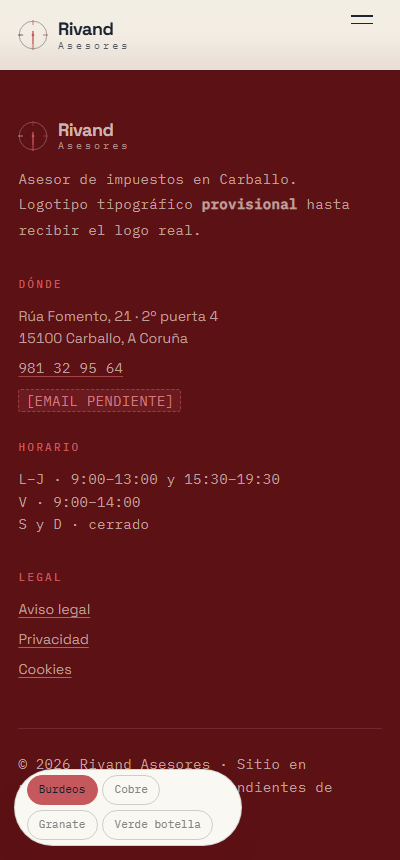
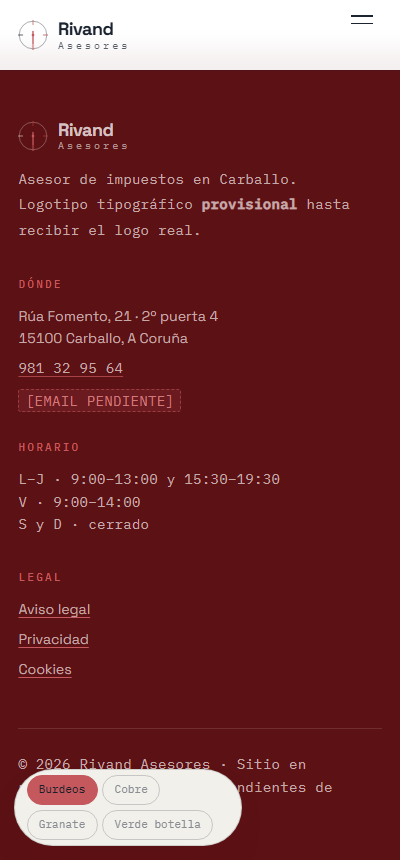
Blanco puro de Dourado & Fernández como papel del default, no solo su rojo
El email comparativo enseña esta web con el rojo real de Dourado & Fernández
como color por defecto, pero su sitio real también es blanco (--crema:
#FFFFFF), no el crema cálido de «Cuenta atrás». Enseñarle su acento sobre un
papel ajeno no era una vista previa fiel, así que el bare :root (Burdeos)
pasa --crema a #FFFFFF y --papel/--crema-2 al #F2F0EA exacto de la franja
secundaria casi-blanca de su propia web. Cobre/Granate/Verde botella
conservan el crema cálido nativo (movido a html.paleta-original y extendido
a .paleta-granate/.paleta-botella, que antes lo heredaban del :root
compartido): no son una réplica de ningún sitio ajeno, solo Burdeos lo es.

Contraste re-verificado con la fórmula WCAG: --cobre-tinta y --salvia-tinta
mejoran (~10,8:1 y ~10:1) sobre el blanco frente al crema cálido anterior.
Seis comprobaciones nuevas en verify.js cubren el fondo en frío, «Cobre»
recuperando el crema nativo y que Granate/Botella no heredan el blanco
(74/74 pasan). README actualizado.

Changed region(s): [[0.0, 0.0, 1.0, 0.0907]]

diff --git a/scripts/verify.js b/scripts/verify.js
@@ -416,7 +416,10 @@ function trimestreEsperado(ahora) {
         pressed: caja && document.getElementById('paleta-burdeos').getAttribute('aria-pressed'),
         clase: document.documentElement.className,
         cobre: getComputedStyle(document.documentElement).getPropertyValue('--cobre').trim(),
-        noche: getComputedStyle(document.documentElement).getPropertyValue('--noche').trim()
+        noche: getComputedStyle(document.documentElement).getPropertyValue('--noche').trim(),
+        crema: getComputedStyle(document.documentElement).getPropertyValue('--crema').trim(),
+        papel: getComputedStyle(document.documentElement).getPropertyValue('--papel').trim(),
+        bodyBg: getComputedStyle(document.body).backgroundColor
       };
     });
     ok('el control de paleta se muestra con JS', inicial.visible, inicial);
@@ -426,17 +429,26 @@ function trimestreEsperado(ahora) {
       inicial.cobre.toLowerCase() === '#c4585c', inicial.cobre);
     ok('el fondo oscuro por defecto (--noche) es el de Dourado & Fernández',
       inicial.noche.toLowerCase() === '#5c1114', inicial.noche);
+    ok('el papel por defecto (--crema) es el blanco real de Dourado & Fernández, no el crema nativo',
+      inicial.crema.toLowerCase() === '#ffffff', inicial.crema);
+    ok('el fondo del <body> se pinta en blanco puro nada más cargar (sin localStorage)',
+      inicial.bodyBg === 'rgb(255, 255, 255)', inicial.bodyBg);
 
     await page.locator('#paleta-original').click();
     await page.waitForTimeout(150);
     const trasOriginal = await page.evaluate(() => ({
       clase: document.documentElement.className,
       cobre: getComputedStyle(document.documentElement).getPropertyValue('--cobre').trim(),
+      crema: getComputedStyle(document.documentElement).getPropertyValue('--crema').trim(),
+      bodyBg: getComputedStyle(document.body).backgroundColor,
       guardado: (() => { try { return localStorage.getItem('rivand-paleta'); } catch (e) { return null; } })()
     }));
     ok('al pulsar «Cobre» (paleta nativa) cambia la clase y el color de marca (--cobre) computado',
       /paleta-original/.test(trasOriginal.clase) && trasOriginal.cobre.toLowerCase() === '#c08552' &&
       trasOriginal.cobre.toLowerCase() !== inicial.cobre.toLowerCase(),
+      trasOriginal);
+    ok('«Cobre» recupera el papel crema nativo de «Cuenta atrás» (#F3EEE4), no el blanco de Dourado',
+      trasOriginal.crema.toLowerCase() === '#f3eee4' && trasOriginal.bodyBg === 'rgb(243, 238, 228)',
       trasOriginal);
     ok('la elección de paleta se guarda en localStorage', trasOriginal.guardado === 'original', trasOriginal.guardado);
 
@@ -449,11 +461,16 @@ function trimestreEsperado(ahora) {
     const trasGranate = await page.evaluate(() => ({
       clase: document.documentElement.className,
       cobre: getComputedStyle(document.documentElement).getPropertyValue('--cobre').trim(),
+      crema: getComputedStyle(document.documentElement).getPropertyValue('--crema').trim(),
+      bodyBg: getComputedStyle(document.body).backgroundColor,
       guardado: (() => { try { return localStorage.getItem('rivand-paleta'); } catch (e) { return null; } })()
     }));
     ok('al pulsar «Granate» cambia la clase y el color de marca (--cobre) computado',
       /paleta-granate/.test(trasGranate.clase) && !/paleta-original/.test(trasGranate.clase) &&
       trasGranate.cobre.toLowerCase() !== trasOriginal.cobre.toLowerCase(),
+      trasGranate);
+    ok('«Granate» se queda en el papel crema nativo (no hereda el blanco de Dourado del bare :root)',
+      trasGranate.crema.toLowerCase() === '#f3eee4' && trasGranate.bodyBg === 'rgb(243, 238, 228)',
       trasGranate);
 
     await page.locator('#paleta-botella').click();
@@ -461,11 +478,16 @@ function trimestreEsperado(ahora) {
     const trasBotella = await page.evaluate(() => ({
       clase: document.documentElement.className,
       cobre: getComputedStyle(document.documentElement).getPropertyValue('--cobre').trim(),
+      crema: getComputedStyle(document.documentElement).getPropertyValue('--crema').trim(),
+      bodyBg: getComputedStyle(document.body).backgroundColor,
       guardado: (() => { try { return localStorage.getItem('rivand-paleta'); } catch (e) { return null; } })()
     }));
     ok('«Verde botella» también cambia clase, color computado y localStorage',
       /paleta-botella/.test(trasBotella.clase) && !/paleta-granate/.test(trasBotella.clase) &&
       trasBotella.cobre.toLowerCase() !== trasGranate.cobre.toLowerCase() && trasBotella.guardado === 'botella',
+      trasBotella);
+    ok('«Verde botella» también se queda en el papel crema nativo, no en el blanco de Dourado',
+      trasBotella.crema.toLowerCase() === '#f3eee4' && trasBotella.bodyBg === 'rgb(243, 238, 228)',
       trasBotella);
     await page.screenshot({ path: path.join(CAPS, 'paleta-botella.png') });
 
@@ -474,11 +496,16 @@ function trimestreEsperado(ahora) {
     const trasBurdeos = await page.evaluate(() => ({
       clase: document.documentElement.className,
       cobre: getComputedStyle(document.documentElement).getPropertyValue('--cobre').trim(),
+      crema: getComputedStyle(document.documentElement).getPropertyValue('--crema').trim(),
+      bodyBg: getComputedStyle(document.body).backgroundColor,
       guardado: (() => { try { return localStorage.getItem('rivand-paleta'); } catch (e) { return null; } })()
     }));
     ok('volver a «Burdeos» quita las tres clases de paleta y recupera el rojo por defecto',
       !/paleta-(original|granate|botella)/.test(trasBurdeos.clase) &&
       trasBurdeos.cobre.toLowerCase() === inicial.cobre.toLowerCase() && trasBurdeos.guardado === 'burdeos',
+      trasBurdeos);
+    ok('volver a «Burdeos» recupera también el blanco puro de Dourado & Fernández',
+      trasBurdeos.crema.toLowerCase() === '#ffffff' && trasBurdeos.bodyBg === 'rgb(255, 255, 255)',
       trasBurdeos);
 
     ok('sin errores de consola durante el cambio de paleta', page.errores.length === 0, page.errores);

diff --git a/css/style.css b/css/style.css
@@ -13,15 +13,22 @@
   --noche: #5C1114;
   --noche-2: #3E0B0D;
   --noche-3: #7A171A;
-  --crema: #F3EEE4;
-  --crema-2: #E8E1D3;
-  --papel: #FAF8F2;
+  /* Blanco puro: la web real de Dourado & Fernández también usa --crema:
+     #FFFFFF, no un crema cálido — así que el default (sin clase) reproduce
+     su papel tal cual, no solo su acento, para el email comparativo. El
+     --papel de aquí (tarjetas y la franja de "Opiniones") reutiliza el
+     hex exacto de su --crema-2 (#F2F0EA), la franja secundaria casi-blanca
+     de esa misma web. El cobre nativo mantiene su crema propio en
+     html.paleta-original, ver abajo. */
+  --crema: #FFFFFF;
+  --crema-2: #F2F0EA;
+  --papel: #F2F0EA;
   --cobre: #C4585C;
   --cobre-claro: #D0797D;
-  --cobre-tinta: #7A1418;      /* legible como texto sobre crema (~9,4:1) */
+  --cobre-tinta: #7A1418;      /* legible sobre crema/blanco (~10,8:1) */
   --salvia: #B2413F;
   --salvia-claro: #CD8482;     /* legible sobre noche (~4,7:1) */
-  --salvia-tinta: #742A29;     /* legible sobre crema (~8,6:1) */
+  --salvia-tinta: #742A29;     /* legible sobre crema/blanco (~10:1) */
   --tinta: #1B2430;
   --tinta-2: color-mix(in srgb, var(--tinta) 72%, var(--crema));
   --tinta-3: color-mix(in srgb, var(--tinta) 52%, var(--crema));
@@ -37,11 +44,15 @@
 
 /* -------------------------- Control de paleta --------------------------
    BLOQUE DE DEMOSTRACIÓN: se borra entero al entregar la web ya como
-   oficial (ver README, "El control de paleta"). Solo cambia el color de
-   marca — la tinta (--tinta y derivados), el papel (--crema, --papel) y
-   el resto de variables estructurales son los mismos en las cuatro paletas,
-   para que el texto siga siendo legible y el sitio no se vea "descolorido"
-   en ningún caso.
+   oficial (ver README, "El control de paleta"). La tinta (--tinta y
+   derivados) y el resto de variables estructurales son los mismos en
+   las cuatro paletas, para que el texto siga siendo legible y el sitio
+   no se vea "descolorido" en ningún caso. El papel (--crema, --crema-2,
+   --papel) es la EXCEPCIÓN desde el 2026-09-21: el bare :root (Burdeos,
+   el rojo real de Dourado & Fernández) lo lleva en blanco puro porque su
+   web real también es blanca, no crema — las otras tres paletas
+   (Original/Granate/Botella) comparten el crema cálido nativo de «Cuenta
+   atrás», ver html.paleta-original más abajo.
    Aquí, a diferencia de una plantilla con fondo claro fijo, el --noche/
    --noche-2/--noche-3 estructural también se redefine junto al acento:
    en "Cuenta atrás" el cobre es la aguja sobre un cielo nocturno, así que
@@ -53,7 +64,16 @@
    default real, sin clase). "Original" es la única paleta que necesita
    clase propia: son los valores nativos de "Cuenta atrás" (el cobre de
    antes del 2026-09-21), reubicados aquí para que sigan siendo
-   alcanzables como una opción explícita del mando. */
+   alcanzables como una opción explícita del mando. El papel nativo
+   (--crema/--crema-2/--papel de antes del 2026-09-21, el crema cálido
+   propio de "Cuenta atrás") va con ella, para no perderlo: solo el rojo
+   de Dourado & Fernández se enseña sobre SU blanco real. Granate y
+   Verde botella son opciones de acento del mando, no una réplica de
+   ningún sitio ajeno, así que se quedan en este mismo papel nativo en
+   vez de heredar el blanco del bare :root. */
+html.paleta-original, html.paleta-granate, html.paleta-botella {
+  --crema: #F3EEE4; --crema-2: #E8E1D3; --papel: #FAF8F2;
+}
 html.paleta-original {
   --noche: #1B2430; --noche-2: #141B25; --noche-3: #26313F;
   --cobre: #C08552; --cobre-claro: #D9A374; --cobre-tinta: #8A5A2B;

diff --git a/README.md b/README.md
@@ -24,7 +24,7 @@ python -m http.server 8971
 NODE_PATH=<ruta a node_modules con playwright> node scripts/verify.js
 ```
 
-**68/68 pruebas pasan.** El informe queda en `scripts/verify-report.json`. Cubre:
+**74/74 pruebas pasan.** El informe queda en `scripts/verify-report.json`. Cubre:
 la aguja encaja en el trimestre real, el aviso de cookies cierra de verdad, el mapa no se
 carga hasta pulsarlo, reduced-motion, el sticky-stack, los contadores, 400 px sin recortes
 ni scroll lateral, la página sin JS, la honestidad de los datos (sin precios, con la
@@ -43,30 +43,41 @@ por email a Dourado & Fernández para que elijan **estructura**, no color — as
 dejó de ser una variable y el **rojo real de Dourado & Fernández pasó a ser el default** en
 las siete, esta incluida, para que abran ya en el color que el cliente ya usa en su propia
 web (`--verde`/`--oro`/`--oro-tinta` de `dourado-fernandez-asesores-carballo-web`). El cobre
-nativo de «Cuenta atrás» no desaparece: sigue siendo una opción más del mando.
+nativo de «Cuenta atrás» no desaparece: sigue siendo una opción más del mando. Más tarde ese
+mismo día, Alvaro señaló que la web real de Dourado & Fernández también tiene el **papel en
+blanco puro** (`--crema: #FFFFFF`), no el crema cálido propio de «Cuenta atrás» — y como el
+objetivo del default es una vista previa fiel para el email comparativo, no solo el acento,
+el fondo también pasó a blanco (`--papel` reutiliza el `#F2F0EA` exacto de la franja secundaria
+casi-blanca de esa misma web). Las otras tres paletas (Cobre/Granate/Verde botella) se quedan
+en el crema cálido nativo: no son una réplica de ningún sitio ajeno.
 
 La píldora de abajo a la izquierda (`#paleta`) cambia en vivo entre cuatro paletas:
 
 | Botón | Paleta | Nota |
 |---|---|---|
-| **Burdeos** | **El default** (sin clase `paleta-*`, es el `:root` de base). El rojo real de Dourado & Fernández: `--noche` casi negro-granate + `--cobre` rojo saturado + `--salvia` derivado del mismo rojo. |
-| **Cobre** | La paleta nativa de «Cuenta atrás» — azul noche + cobre + salvia —, reubicada en `html.paleta-original`. |
-| **Granate** | Vino/granate sobre un fondo casi negro con un punto de rojo, con un dorado apagado como acento secundario (registro de sello y pan de oro). |
-| **Verde botella** | Verde ledger sobre un fondo casi negro con un punto de verde, con un terracota apagado como acento secundario. |
+| **Burdeos** | **El default** (sin clase `paleta-*`, es el `:root` de base). El rojo real de Dourado & Fernández: `--noche` casi negro-granate + `--cobre` rojo saturado + `--salvia` derivado del mismo rojo, **sobre su papel real** (`--crema: #FFFFFF`, `--papel: #F2F0EA`). |
+| **Cobre** | La paleta nativa de «Cuenta atrás» — azul noche + cobre + salvia sobre el crema cálido nativo (`--crema: #F3EEE4`) —, reubicada en `html.paleta-original`. |
+| **Granate** | Vino/granate sobre un fondo casi negro con un punto de rojo, con un dorado apagado como acento secundario (registro de sello y pan de oro), sobre el mismo crema cálido nativo. |
+| **Verde botella** | Verde ledger sobre un fondo casi negro con un punto de verde, con un terracota apagado como acento secundario, sobre el mismo crema cálido nativo. |
 
-Solo cambian el **color de marca**: `--noche`/`--noche-2`/`--noche-3` (el fondo oscuro
+Cambian el **color de marca**: `--noche`/`--noche-2`/`--noche-3` (el fondo oscuro
 estructural — se redefine junto al acento porque en «Cuenta atrás» el cobre es la aguja
 sobre un cielo nocturno, y un acento granate o verde pintado sobre un azul noche desentonaría)
 y `--cobre`/`--cobre-claro`/`--cobre-tinta`/`--salvia`/`--salvia-claro`/`--salvia-tinta`. La
-tinta, el papel (`--crema`, `--crema-2`, `--papel`) y el resto de variables estructurales son
-los mismos en las cuatro, para que el texto siga siendo legible en cualquiera. Los contrastes de las dos paletas de demostración (granate/botella) se calcularon con la
+tinta y el resto de variables estructurales son las mismas en las cuatro, para que el texto
+siga siendo legible en cualquiera. El **papel** (`--crema`, `--crema-2`, `--papel`) es la
+excepción: Burdeos lo lleva en blanco puro (el papel real de Dourado & Fernández, no una
+aproximación), mientras que Cobre/Granate/Verde botella comparten el crema cálido propio de
+«Cuenta atrás» — así que solo el default reproduce el sitio del cliente de verdad, acento y
+papel juntos, y las otras tres opciones del mando siguen siendo la identidad nativa de la
+plantilla. Los contrastes de las dos paletas de demostración (granate/botella) se calcularon con la
 fórmula de luminancia relativa WCAG (no a ojo) para igualar o mejorar los de la paleta nativa:
 `--cobre-tinta` sobre `--crema` ≥5,1:1, `--salvia-claro` sobre `--noche` ≥5,8:1, `--salvia-tinta`
 sobre `--crema` ≥5,5:1. El rojo de Dourado & Fernández usa sus propios hex reales (no se
-inventaron), verificados igual: `--cobre-tinta` ≈9,4:1 y `--salvia-tinta` ≈8,6:1 sobre
-`--crema` (mejor que la paleta nativa), y `--salvia-claro` ≈4,7:1 sobre `--noche` (algo por
-debajo de las otras paletas — `--salvia` ahí es un acento secundario de uso ligero, no texto
-de cuerpo).
+inventaron), verificados igual sobre su propio papel blanco: `--cobre-tinta` ≈10,8:1 y
+`--salvia-tinta` ≈10:1 sobre `--crema` (mejor todavía que sobre el crema cálido nativo), y
+`--salvia-claro` ≈4,7:1 sobre `--noche` (algo por debajo de las otras paletas — `--salvia` ahí
+es un acento secundario de uso ligero, no texto de cuerpo).
 
 La elección se recuerda en `localStorage` (`rivand-paleta`, valores `burdeos`/`original`/
 `granate`/`botella` — `burdeos` es el único que no añade clase) y se resuelve en un script
